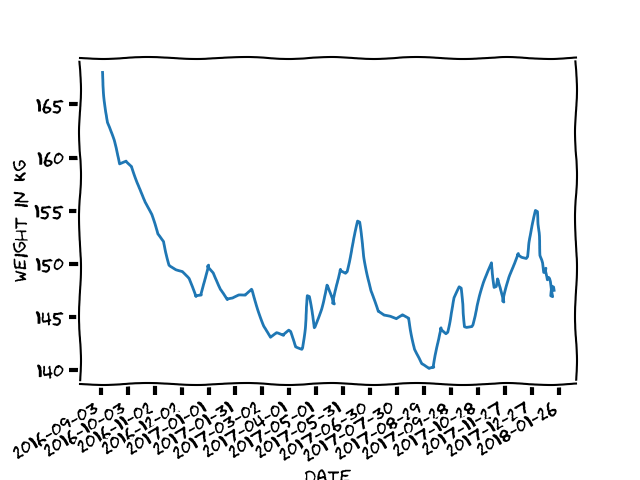
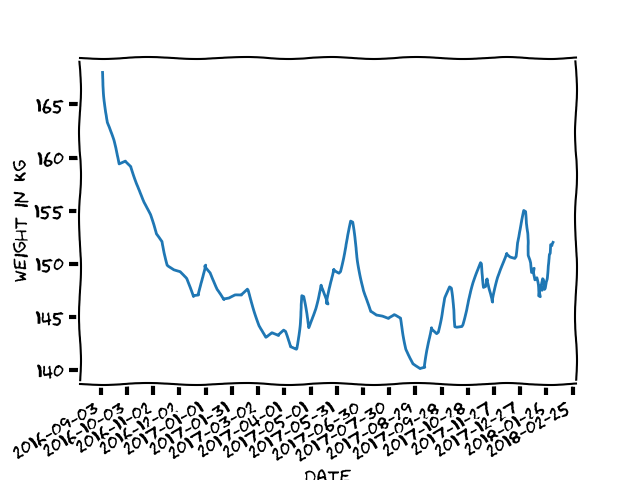
Week 4 and 5 update

diff --git a/index.html b/index.html
@@ -30,6 +30,94 @@
   </thead>
   <tbody>
     <tr>
+      <th>2018-02-03</th>
+      <td>152.0</td>
+      <td>0.3</td>
+      <td>-16.0</td>
+      <td>45.4</td>
+      <td>1.8</td>
+    </tr>
+    <tr>
+      <th>2018-02-01</th>
+      <td>151.7</td>
+      <td>-0.1</td>
+      <td>-16.3</td>
+      <td>45.3</td>
+      <td>1.8</td>
+    </tr>
+    <tr>
+      <th>2018-01-31</th>
+      <td>151.8</td>
+      <td>0.8</td>
+      <td>-16.2</td>
+      <td>45.3</td>
+      <td>1.8</td>
+    </tr>
+    <tr>
+      <th>2018-01-30</th>
+      <td>151.0</td>
+      <td>0.1</td>
+      <td>-17.0</td>
+      <td>45.1</td>
+      <td>1.8</td>
+    </tr>
+    <tr>
+      <th>2018-01-29</th>
+      <td>150.9</td>
+      <td>1.1</td>
+      <td>-17.1</td>
+      <td>45.1</td>
+      <td>1.8</td>
+    </tr>
+    <tr>
+      <th>2018-01-27</th>
+      <td>149.8</td>
+      <td>1.2</td>
+      <td>-18.2</td>
+      <td>44.7</td>
+      <td>1.8</td>
+    </tr>
+    <tr>
+      <th>2018-01-26</th>
+      <td>148.6</td>
+      <td>0.3</td>
+      <td>-19.4</td>
+      <td>44.4</td>
+      <td>1.8</td>
+    </tr>
+    <tr>
+      <th>2018-01-25</th>
+      <td>148.3</td>
+      <td>0.7</td>
+      <td>-19.7</td>
+      <td>44.3</td>
+      <td>1.8</td>
+    </tr>
+    <tr>
+      <th>2018-01-24</th>
+      <td>147.6</td>
+      <td>-0.6</td>
+      <td>-20.4</td>
+      <td>44.1</td>
+      <td>1.8</td>
+    </tr>
+    <tr>
+      <th>2018-01-23</th>
+      <td>148.2</td>
+      <td>-0.4</td>
+      <td>-19.8</td>
+      <td>44.3</td>
+      <td>1.8</td>
+    </tr>
+    <tr>
+      <th>2018-01-22</th>
+      <td>148.6</td>
+      <td>1.1</td>
+      <td>-19.4</td>
+      <td>44.4</td>
+      <td>1.8</td>
+    </tr>
+    <tr>
       <th>2018-01-20</th>
       <td>147.5</td>
       <td>-0.4</td>
